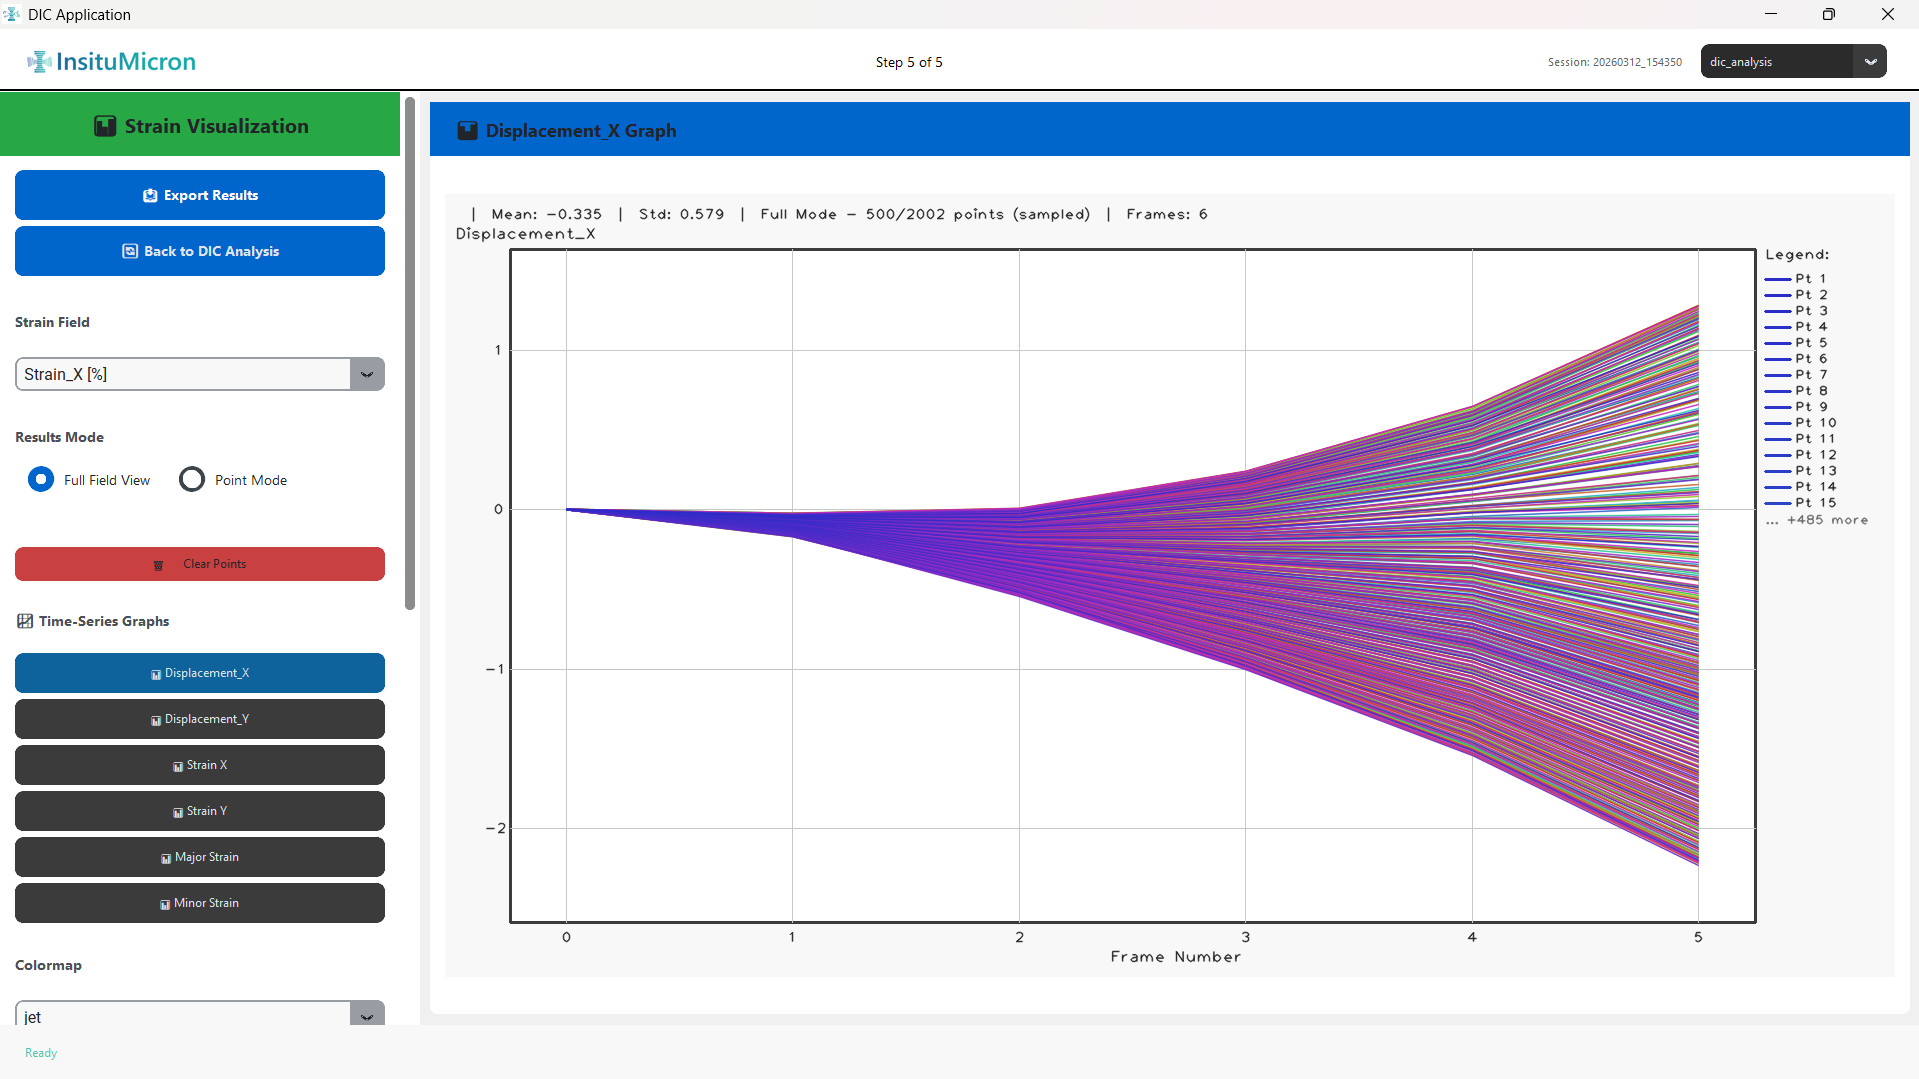
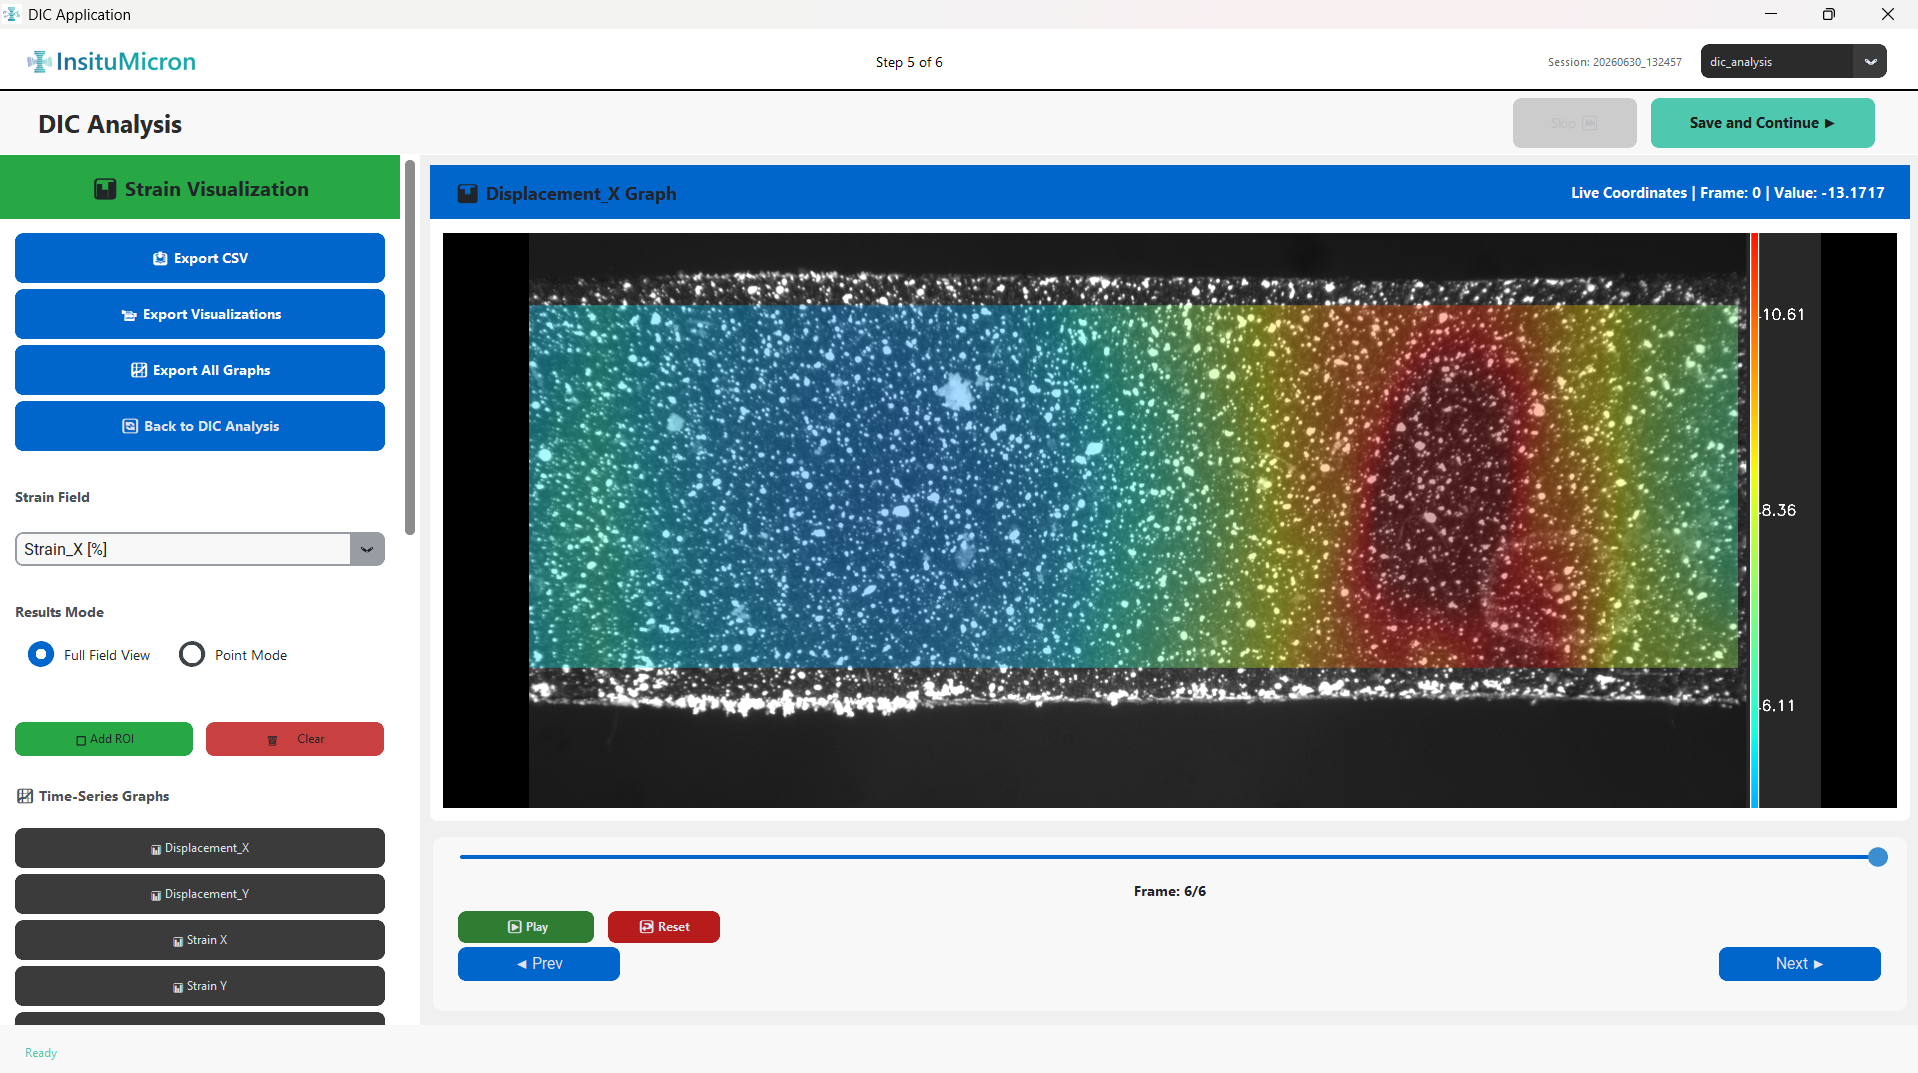
Updated manual with new DIC analysis UI and export options

diff --git a/module5_dic_analysis.html b/module5_dic_analysis.html
@@ -1,4 +1,4 @@
-<!DOCTYPE html>
+<!DOCTYPE html>
 <html lang="en">
 <head>
 <meta charset="UTF-8">
@@ -37,14 +37,16 @@
     <a class="sub" href="#analysis-mode">Analysis Mode</a>
     <a class="sub" href="#subset-size">Subset Size</a>
     <a class="sub" href="#grid-step">Grid Step</a>
+    <a class="sub" href="#strain-calculation">Strain Calculation</a>
     <a href="#run-analysis">5.2 Run Analysis</a>
     <a href="#canvas">5.3 Right Panel — Canvas</a>
     <a class="sub" href="#post-viz">Visualization Controls</a>
+    <a class="sub" href="#overlays">Overlays</a>
     <a href="#results">5.4 Results &amp; Export</a>
     <a class="sub" href="#header-bar">Header Bar</a>
     <a class="sub" href="#field-selector">Field Selector</a>
     <a class="sub" href="#graph-panel">Graph Panel</a>
-    <a class="sub" href="#export">Exporting Data</a>
+    <a class="sub" href="#export">Exporting Data &amp; Structure</a>
   </nav>
 
   <main class="content">
@@ -117,6 +119,17 @@
       </tbody>
     </table></div>
 
+    <h3 id="strain-calculation">Strain Calculation</h3>
+    <p>Select the formulation used to compute spatial strains.</p>
+    <div class="tbl-wrap"><table>
+      <thead><tr><th>Control</th><th>Description</th></tr></thead>
+      <tbody>
+        <tr><td>Engineering (ε = λ - 1)</td><td>Standard engineering strain based on the original undeformed length. Suitable for small deformations.</td></tr>
+        <tr><td>Green-Lagrange (E)</td><td>A finite strain measure that is invariant to rigid body rotations. Highly recommended for large deformations and rotations.</td></tr>
+        <tr><td>True Strain (ln)</td><td>Logarithmic strain formulation (ε = ln(λ)). Useful for large plastic deformations often used in materials testing.</td></tr>
+      </tbody>
+    </table></div>
+
     <!-- 5.2 Run Analysis -->
     <h2 id="run-analysis">5.2 &nbsp; Run Analysis Controls</h2>
     <div class="tbl-wrap"><table>
@@ -162,6 +175,16 @@
       </tbody>
     </table></div>
 
+    <h3 id="overlays">Overlays</h3>
+    <div class="tbl-wrap"><table>
+      <thead><tr><th>Control</th><th>Description</th></tr></thead>
+      <tbody>
+        <tr><td>Show Point IDs (toggle)</td><td>Displays the unique integer ID number on top of each tracked point in the visualization canvas.</td></tr>
+        <tr><td>Scale Bar (toggle)</td><td>Shows or hides the calibrated physical scale bar in the corner of the exported images.</td></tr>
+        <tr><td>Frame Number (toggle)</td><td>Overlays the current frame number (e.g., "Frame 45") directly onto the image.</td></tr>
+      </tbody>
+    </table></div>
+
     <!-- 5.4 Results -->
     <h2 id="results">5.4 &nbsp; Results &amp; Data Export</h2>
     <p>The Results view is accessed by clicking the <strong>Results</strong> button (or it appears automatically after analysis). It shows interactive graphs of the computed fields over time and provides export functionality.</p>
@@ -193,7 +216,17 @@
         <tr><td>SHEAR_XY</td><td>Shear strain component — Gamma_XY</td><td>%</td></tr>
         <tr><td>STRAIN_MAJOR</td><td>Maximum (first) principal strain at each point</td><td>%</td></tr>
         <tr><td>STRAIN_MINOR</td><td>Minimum (second) principal strain at each point</td><td>%</td></tr>
-        <tr><td>Export Full Data to CSV (green, bottom)</td><td>Exports the complete result dataset (all fields, all frames, all tracked points) to a CSV file.</td><td>—</td></tr>
+      </tbody>
+    </table></div>
+
+    <h3 id="export-options">Export Buttons</h3>
+    <div class="tbl-wrap"><table>
+      <thead><tr><th>Button</th><th>Description</th></tr></thead>
+      <tbody>
+        <tr><td>📥 Export CSV</td><td>Exports strain and displacement data. In <strong>Full Field</strong> mode, all tracked points are exported. In <strong>Point Mode</strong>, only the currently selected points are exported. The format is automatically chosen: <strong>Excel (.xlsx)</strong> for datasets with ≤16,000 points, or <strong>multiple CSV files</strong> for larger datasets.</td></tr>
+        <tr><td>📹 Export Visualizations</td><td>Saves every frame as an individual <strong>PNG image</strong> with the heatmap overlay applied, plus a combined <strong>MP4 video</strong> of all frames. Overlays (scale bar, frame number) are burned into the exported images based on your current toggle settings.</td></tr>
+        <tr><td>📈 Export All Graphs</td><td>Exports the time-series line plots (U, V, Strain X, Strain Y, Major Strain, Minor Strain) as individual <strong>PNG images</strong> into a selected folder.</td></tr>
+        <tr><td>🔄 Back to DIC Analysis</td><td>Returns to the main DIC Configuration and canvas view.</td></tr>
       </tbody>
     </table></div>
 
@@ -205,26 +238,62 @@
       <li><strong>Zoom and pan</strong> — click and drag on the graph to zoom into a region. Right-click or use the toolbar to reset the zoom.</li>
     </ul>
 
-    <div class="note">The graph sampling (max 500 display points) does not affect the exported CSV. The CSV always contains every tracked point from every analyzed frame. Use the CSV for rigorous data analysis in external tools (Excel, MATLAB, Python, etc.).</div>
+    <div class="note">The graph sampling (max 500 display points) does not affect the exported data. The export always contains every tracked point from every analyzed frame. Use the exported files for rigorous data analysis in external tools (Excel, MATLAB, Python, etc.).</div>
 
-    <h3 id="export">Exporting Data</h3>
-    <div class="procedure">
-      <div class="proc-step"><p>Click <strong>Export Full Data to CSV</strong> (green button, bottom of the left panel).</p></div>
-      <div class="proc-step"><p>A Windows file save dialog opens. Choose a destination folder and enter a filename (e.g., <code>Test_01_DIC_Results.csv</code>).</p></div>
-      <div class="proc-step"><p>Click <strong>Save</strong>. The application writes the CSV file. A confirmation message confirms successful export.</p></div>
-    </div>
-    <p>The exported CSV file includes the following columns for each data row:</p>
+    <h3 id="export">Exporting Data &amp; File Formats</h3>
+
+    <h4>Export CSV — Data Format</h4>
+    <p>The <strong>Export CSV</strong> button creates a multi-sheet file. Each measurement metric gets its own sheet (or its own CSV file for large datasets). Within each sheet, the data is <strong>pivoted</strong>: rows are <em>Frames</em>, and columns are individual <em>Points</em>. Three summary columns (<code>Average</code>, <code>Min</code>, <code>Max</code>) are appended to each sheet.</p>
+
+    <p><strong>Sheets created (in order):</strong></p>
     <div class="tbl-wrap"><table>
-      <thead><tr><th>Column</th><th>Description</th></tr></thead>
+      <thead><tr><th>Sheet / File Name</th><th>Contents</th></tr></thead>
       <tbody>
-        <tr><td>Point_ID</td><td>Unique integer identifier for each tracked subset point</td></tr>
-        <tr><td>Frame</td><td>Frame number (0 = reference, 1 = first deformed, etc.)</td></tr>
-        <tr><td>X_ref, Y_ref</td><td>Position of the tracking point in the reference image (pixels)</td></tr>
-        <tr><td>Disp_X, Disp_Y</td><td>Computed displacement in X and Y (mm or px)</td></tr>
-        <tr><td>Strain_XX, Strain_YY, Strain_XY</td><td>Normal and shear strain components (%)</td></tr>
-        <tr><td>Major_Strain, Minor_Strain</td><td>Principal strains (%)</td></tr>
+        <tr><td>U</td><td>Horizontal displacement (X-direction) per point per frame</td></tr>
+        <tr><td>V</td><td>Vertical displacement (Y-direction) per point per frame</td></tr>
+        <tr><td>Strain_X [%]</td><td>Normal strain in X per point per frame</td></tr>
+        <tr><td>Strain_Y [%]</td><td>Normal strain in Y per point per frame</td></tr>
+        <tr><td>Major_Strain [%]</td><td>Maximum principal strain per point per frame</td></tr>
+        <tr><td>Minor_Strain [%]</td><td>Minimum principal strain per point per frame</td></tr>
+        <tr><td>Point_Position</td><td>Reference X and Y coordinates for each point (2 rows: X, Y)</td></tr>
+        <tr><td>Magnitude</td><td>Total displacement magnitude per point per frame</td></tr>
       </tbody>
     </table></div>
+
+    <p><strong>Sheet layout example</strong> (e.g., sheet <code>Strain_X [%]</code>):</p>
+    <div class="tbl-wrap"><table>
+      <thead><tr><th>Frame</th><th>Point_0</th><th>Point_1</th><th>Point_2</th><th>…</th><th>Average</th><th>Min</th><th>Max</th></tr></thead>
+      <tbody>
+        <tr><td>0</td><td>0.012</td><td>0.015</td><td>0.009</td><td>…</td><td>0.012</td><td>0.009</td><td>0.015</td></tr>
+        <tr><td>1</td><td>0.034</td><td>0.041</td><td>0.028</td><td>…</td><td>0.034</td><td>0.028</td><td>0.041</td></tr>
+      </tbody>
+    </table></div>
+
+    <div class="note">For datasets with <strong>more than 16,000 tracked points</strong>, the application automatically switches to <strong>multiple CSV files</strong> instead of a single Excel workbook (Excel row/column limits). Each metric is saved as a separate CSV file named <code>dic_results_U.csv</code>, <code>dic_results_Strain_X_pct.csv</code>, etc. A <code>_summary.txt</code> file with displacement and strain statistics is also generated alongside the data.</div>
+
+    <h4>Export Visualizations — Folder Structure</h4>
+    <p>When you click <strong>Export Visualizations</strong>, you select an output folder. The application creates the following structure:</p>
+    <div class="code-block" style="background:#2d2d2d; color:#ccc; padding:10px; border-radius:4px; font-family:Consolas,monospace; margin-bottom:15px; font-size:13px;">
+      [Selected Folder]/<br>
+      &nbsp;&nbsp;├── Strain_X_pct_frames/<br>
+      &nbsp;&nbsp;│&nbsp;&nbsp;&nbsp;├── frame_0000.png<br>
+      &nbsp;&nbsp;│&nbsp;&nbsp;&nbsp;├── frame_0001.png<br>
+      &nbsp;&nbsp;│&nbsp;&nbsp;&nbsp;└── … (one PNG per analyzed frame)<br>
+      &nbsp;&nbsp;└── Strain_X_pct_visualization.mp4<br>
+    </div>
+    <p>The folder and video names reflect the currently selected strain field (e.g., <code>Major_Strain_pct_frames/</code>). Each exported PNG includes the heatmap overlay, colorbar, and any enabled overlays (scale bar, frame number text).</p>
+
+    <h4>Export All Graphs — Output</h4>
+    <p>Exports each time-series graph type as a separate PNG image into your chosen folder:</p>
+    <div class="code-block" style="background:#2d2d2d; color:#ccc; padding:10px; border-radius:4px; font-family:Consolas,monospace; margin-bottom:15px; font-size:13px;">
+      [Selected Folder]/<br>
+      &nbsp;&nbsp;├── Graph_Displacement_X.png<br>
+      &nbsp;&nbsp;├── Graph_Displacement_Y.png<br>
+      &nbsp;&nbsp;├── Graph_Strain_X.png<br>
+      &nbsp;&nbsp;├── Graph_Strain_Y.png<br>
+      &nbsp;&nbsp;├── Graph_Major_Strain.png<br>
+      &nbsp;&nbsp;└── Graph_Minor_Strain.png<br>
+    </div>
 
     <div class="page-nav">
       <a href="module4_pattern_validation.html" class="prev">Pattern Validation</a>

diff --git a/style.css b/style.css
@@ -27,7 +27,7 @@
   --green:       #1a7a4a;
   --green-bg:    #eaf6ef;
   --amber:       #8a5a00;
-  --amber-bg:    #fef8ea;
+  --amber-bg:    #7e5d11;
   --red:         #8a1515;
   --red-bg:      #fdf0f0;
 }